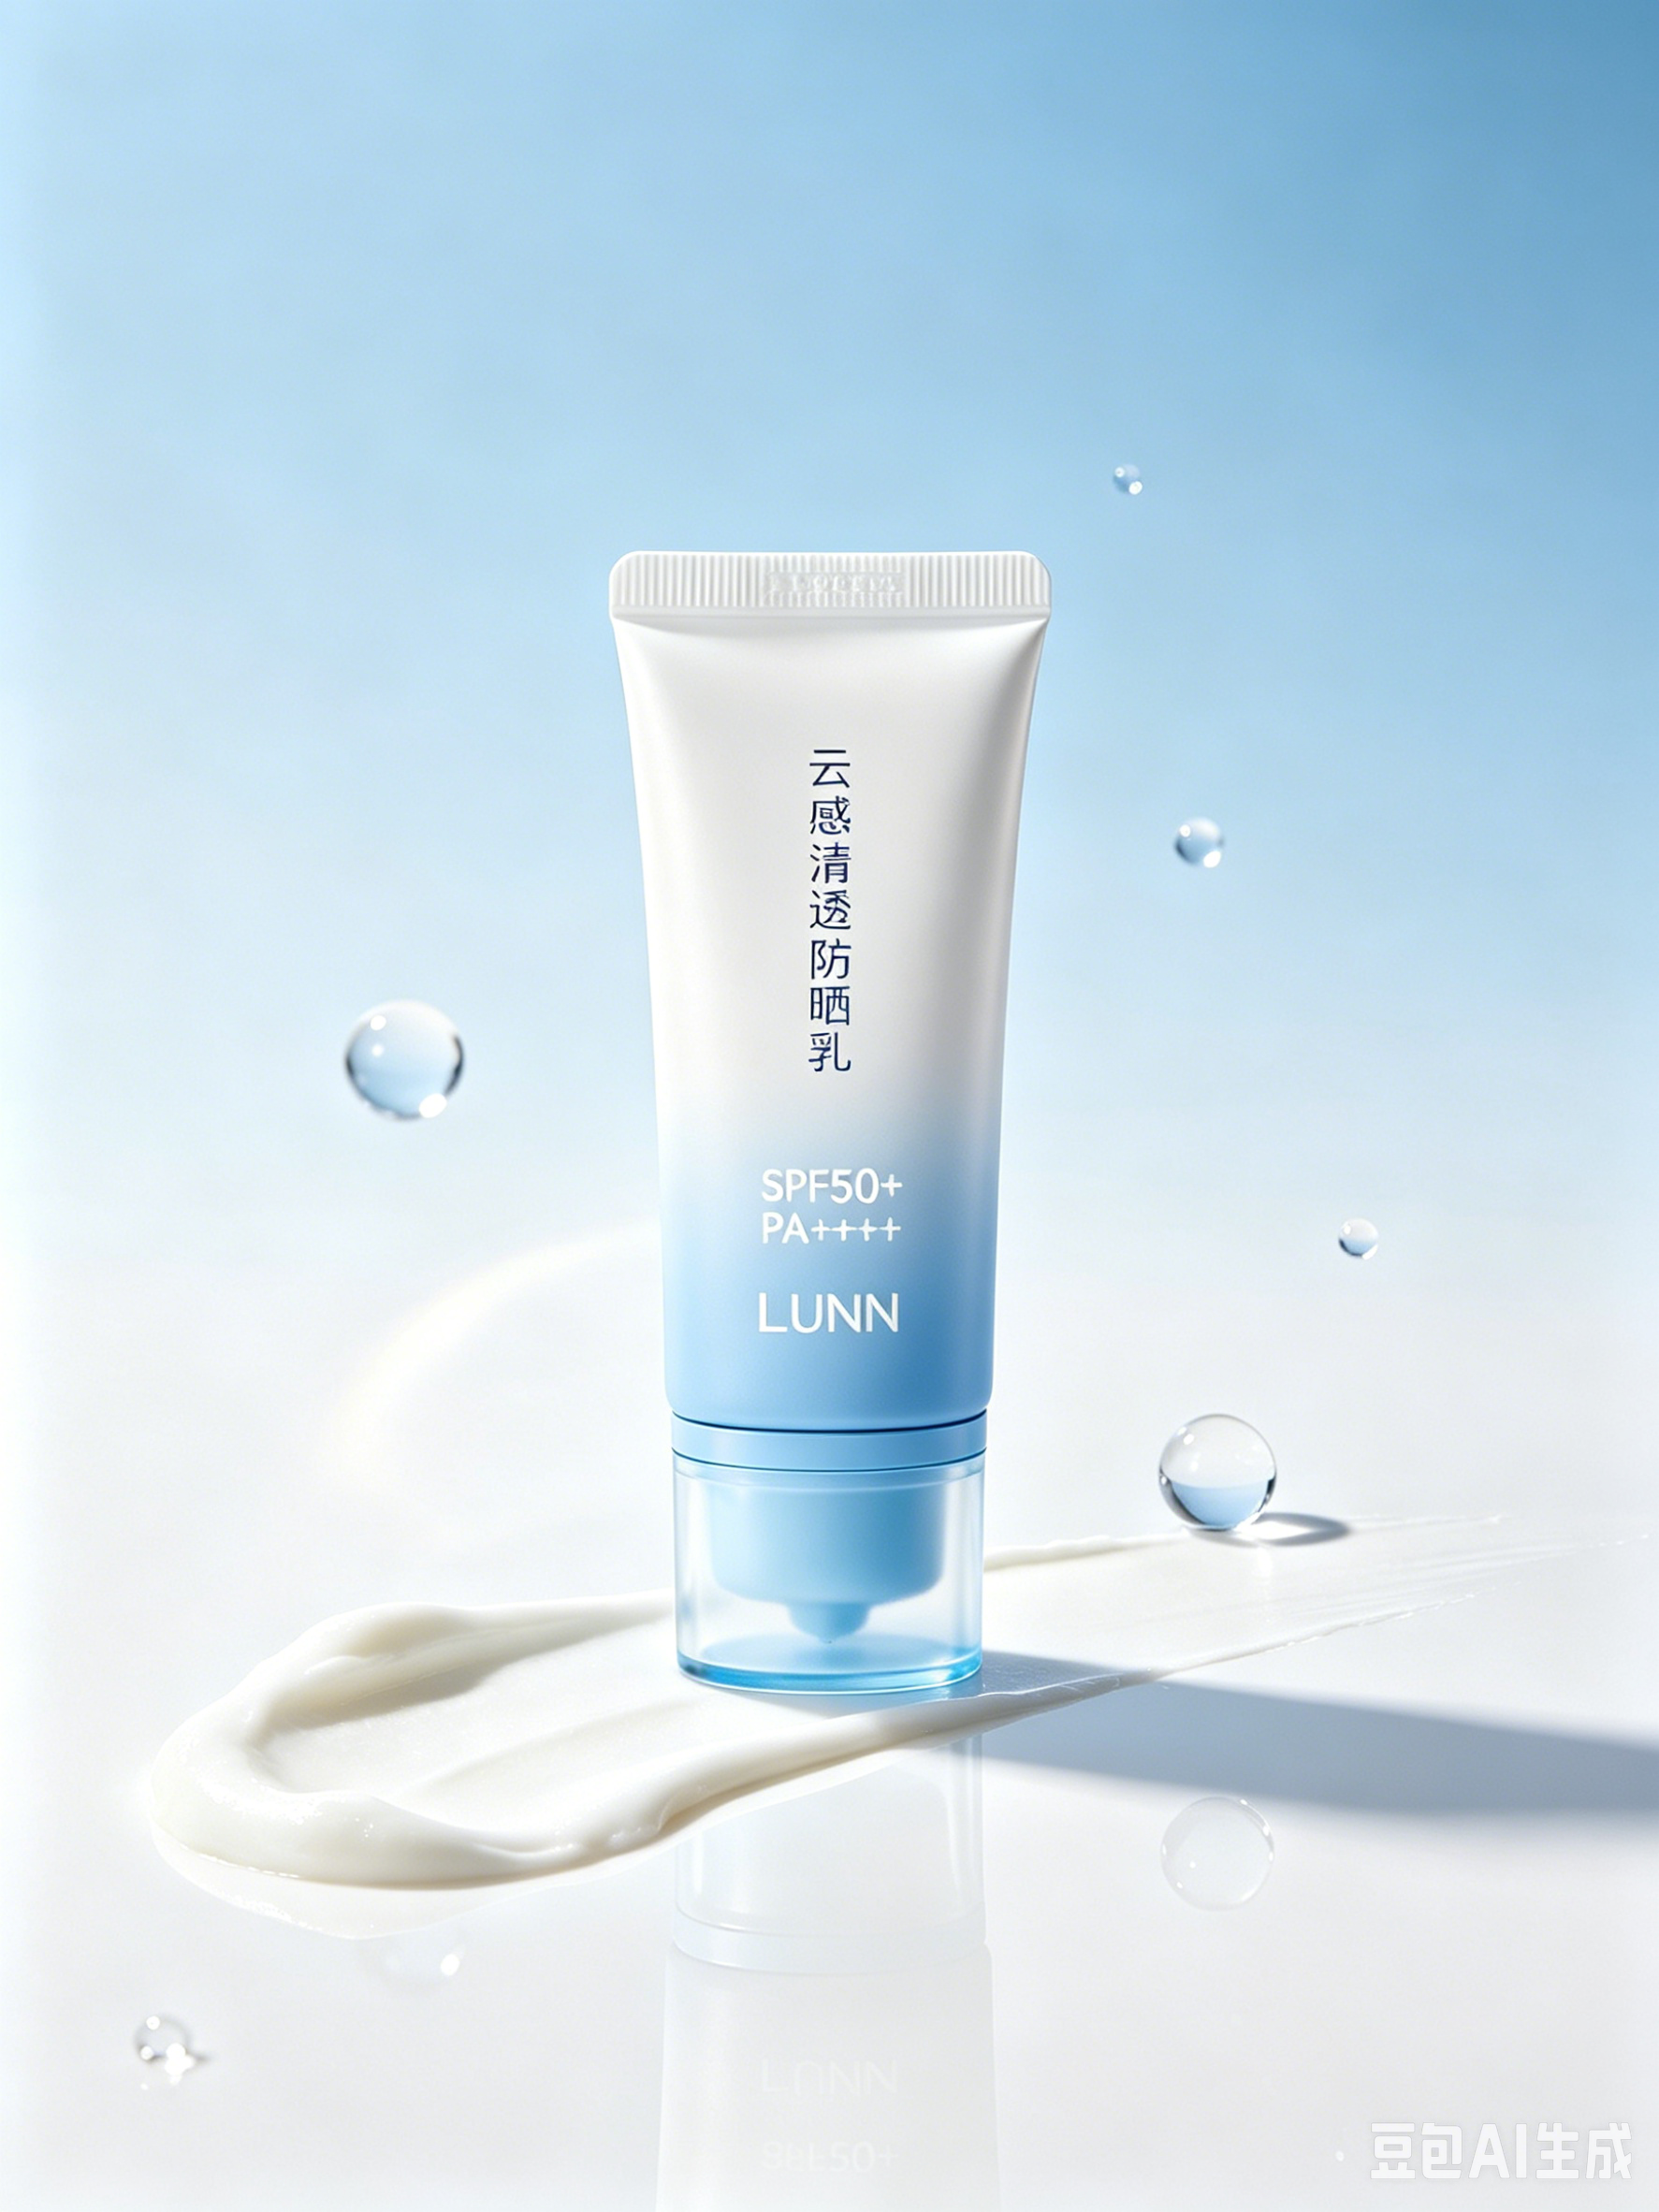
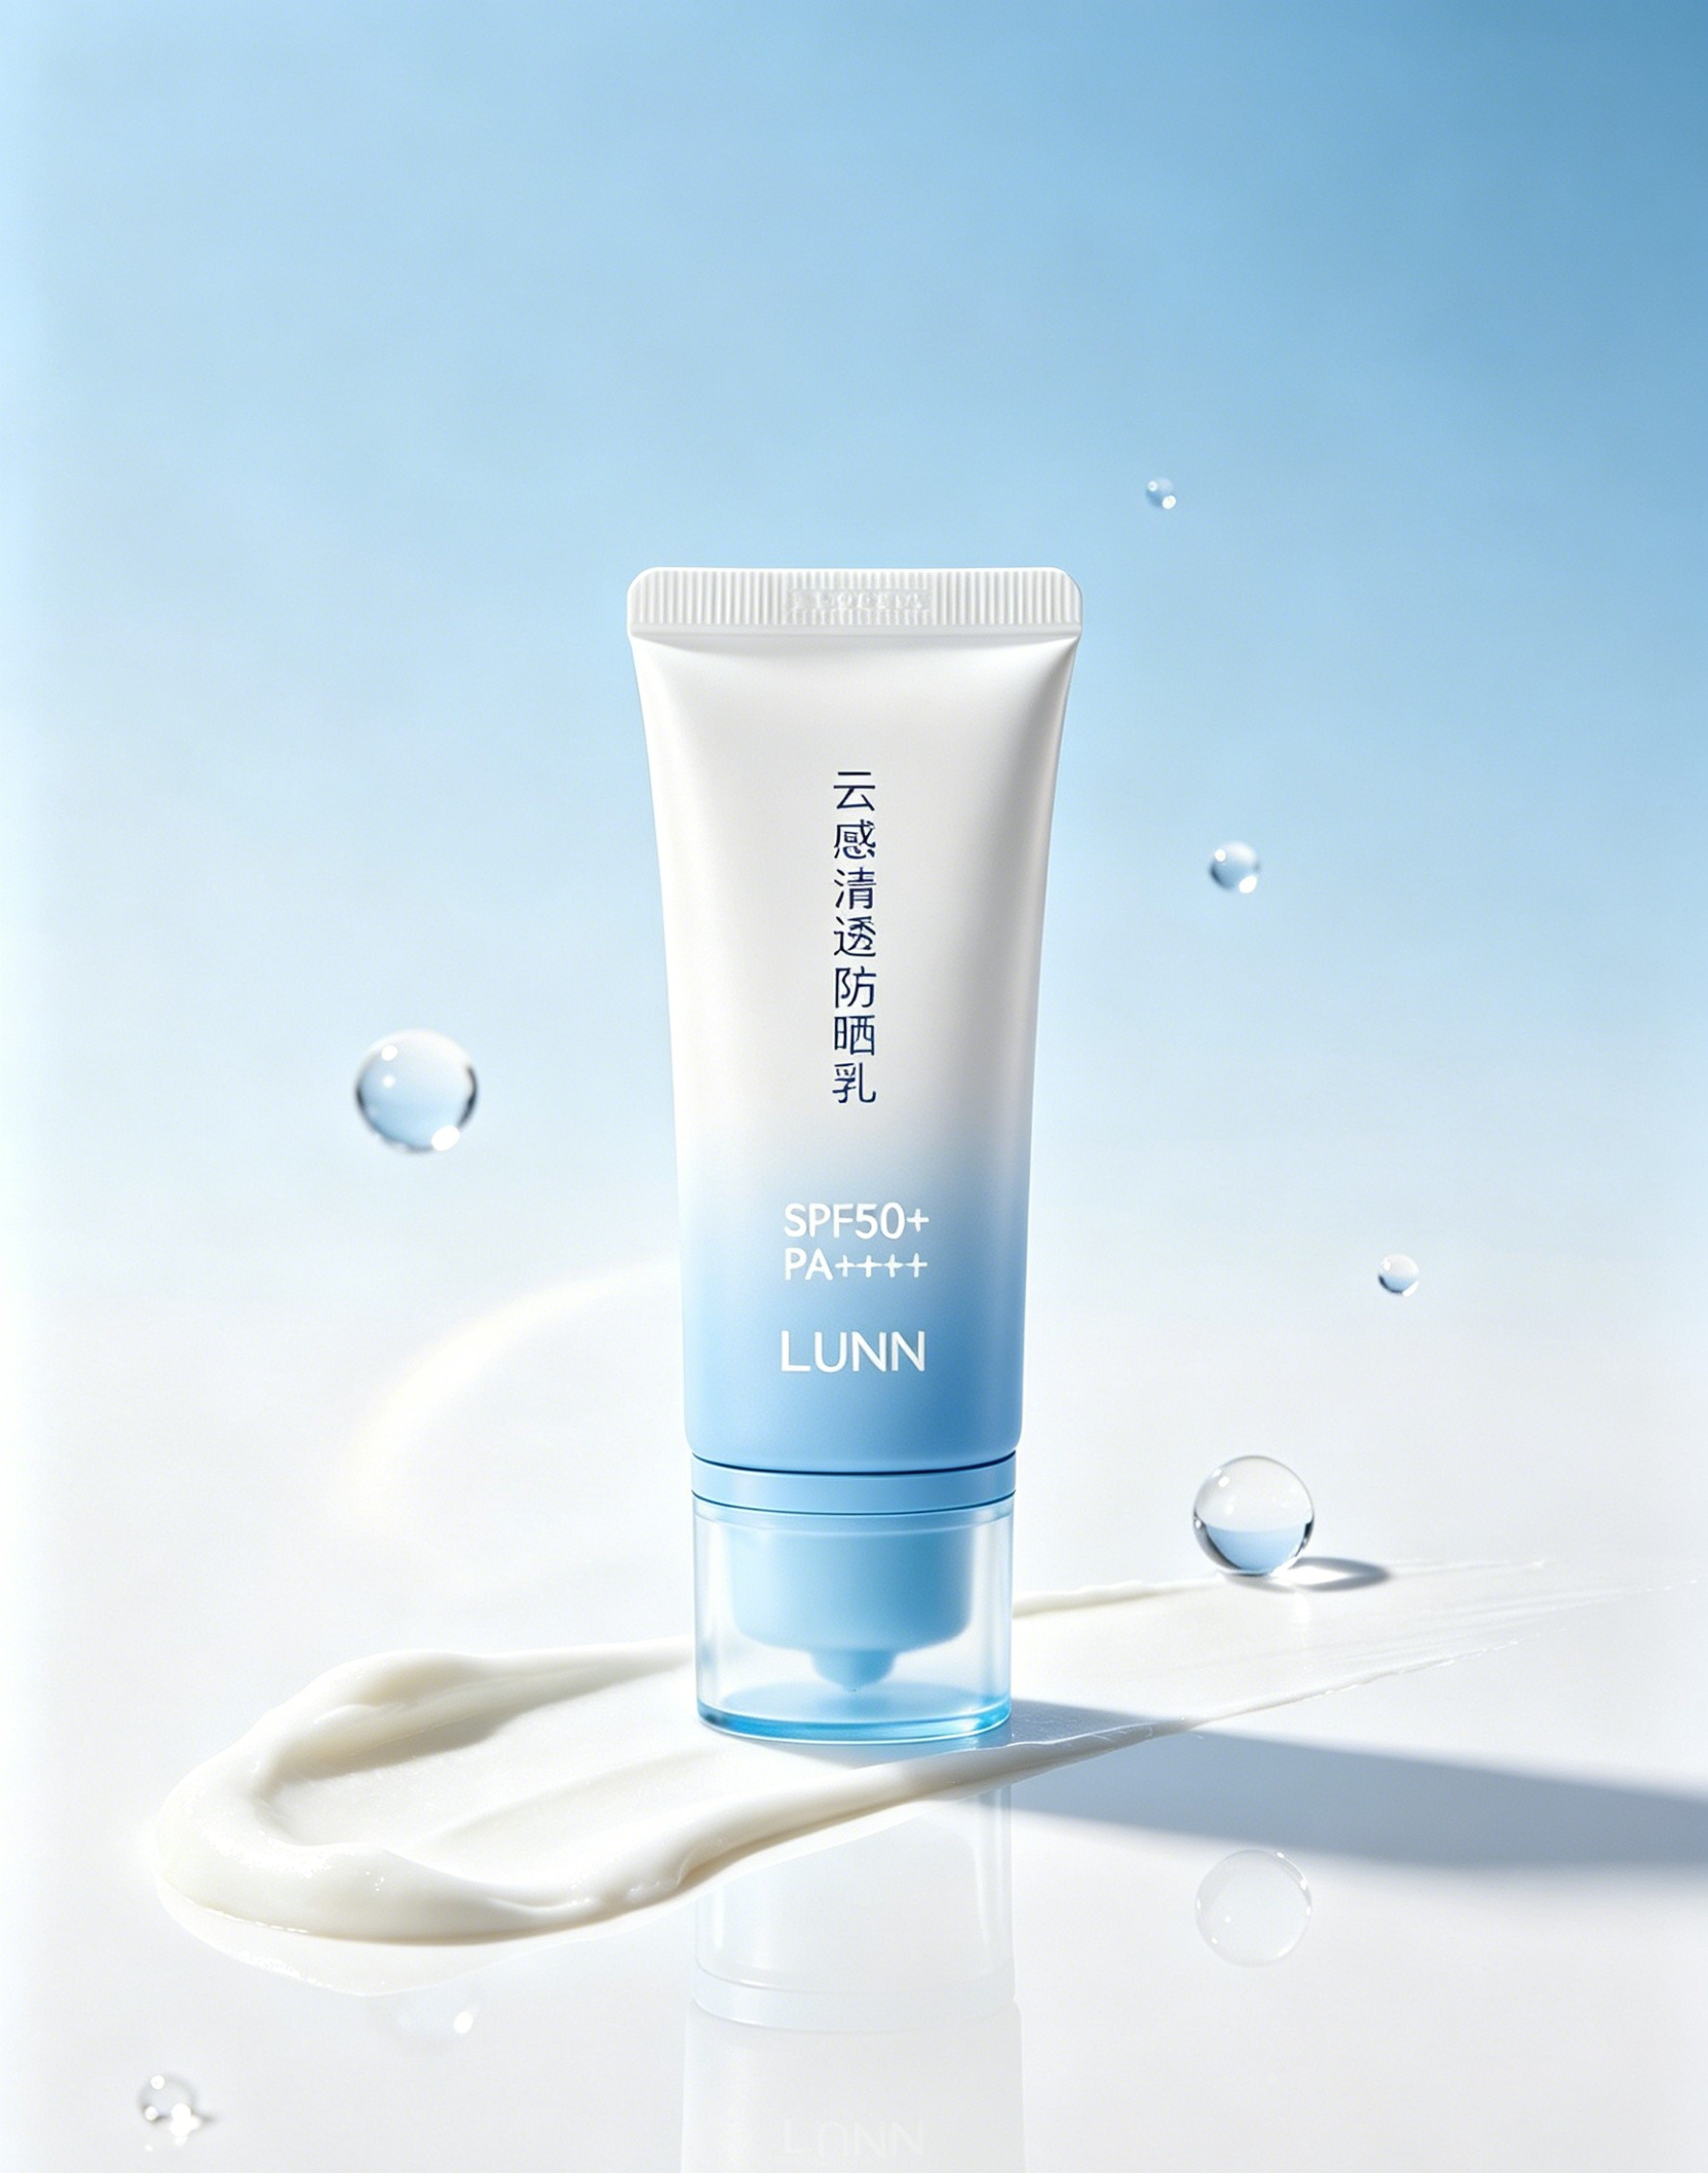
Add files via upload

diff --git a/suncontrol.html b/suncontrol.html
@@ -1,0 +1,323 @@
+<!DOCTYPE html>
+<html lang="zh-CN">
+<head>
+<meta charset="UTF-8">
+<meta name="viewport" content="width=device-width, initial-scale=1.0">
+<title>直播-无主播讲解对照组</title>
+<style>
+* {margin:0;padding:0;box-sizing:border-box;}
+body {background:#f5f5f5; font-family:微软雅黑;}
+.live-wrap {max-width:800px;margin:20px auto;background:#fff;border-radius:12px;overflow:hidden;box-shadow:0 2px 10px #0002;}
+video {width:100%;display:block;}
+.host-bar {padding:12px 15px;border-bottom:1px #eee solid;display:flex;align-items:center;}
+.avatar {width:40px;height:40px;border-radius:50%;background:#ff6700;color:#fff;text-align:center;line-height:40px;font-weight:bold;margin-right:10px;}
+.host-name {font-size:16px;font-weight:bold;}
+.live-tag {background:red;color:#fff;font-size:12px;padding:2px 6px;border-radius:4px;margin-left:8px;}
+
+/* 唤起商品弹窗的悬浮按钮：和商品弹窗同位置，不脱离视频区域 */
+.trigger-pop-btn{
+  position:fixed; 
+  bottom:120px; 
+  left:50%; 
+  transform:translateX(-50%);
+  width:calc(100% - 80px); 
+  max-width:760px;
+  padding:12px 24px;
+  background:#eeeeee;
+  border:0;
+  border-radius:10px;
+  font-size:15px;
+  cursor:pointer;
+  z-index:998;
+}
+
+/* 对照组：商品弹窗默认隐藏，不会自动弹出 */
+.product-pop {
+  position:fixed; 
+  bottom:25px; 
+  left:50%; 
+  transform:translateX(-50%);
+  width:calc(100% - 40px); 
+  max-width:800px;
+  background:#fff; 
+  border-radius:14px;
+  box-shadow:0 5px 25px rgba(0,0,0,0.15); 
+  padding:20px; 
+  display:none; 
+  z-index:999;
+}
+.product-pop.show {display:block;}
+
+.pop-row {
+  display:flex;
+  gap:14px;
+  align-items:center;
+  margin-bottom:16px;
+}
+.pop-left-img {
+  width:90px;
+  height:90px;
+  object-fit:cover;
+  border-radius:10px;
+}
+.pop-right-text {
+  flex:1;
+}
+.p-title {font-size:18px;font-weight:bold;margin-bottom:8px;line-height:1.4;}
+.p-price {color:#ff4400;font-size:20px;font-weight:bold;}
+
+/* 双按钮并排容器，和实验组样式完全统一 */
+.btn-row {
+  display:flex;
+  gap:12px;
+}
+.btn-half {
+  flex:1;
+  padding:14px;
+  border-radius:10px;
+  border:0;
+  cursor:pointer;
+  font-weight:bold;
+  font-size:16px;
+}
+.btn-detail {
+  background:#f0f0f0;
+  color:#333;
+}
+.btn-buy {
+  background:#ff6700;
+  color:#fff;
+}
+
+/* 详情弹窗样式和实验组完全一致，顶部30%透明露出视频 */
+.detail-mask {
+  position:fixed;
+  inset:0;
+  z-index:9999;
+  display:none;
+  background:linear-gradient(to bottom, transparent 30%, rgba(0,0,0,0.6) 25%);
+}
+.detail-mask.show {display:block;}
+.detail-box {
+  width:92%;
+  max-width:780px;
+  height:60vh;
+  background:#fff;
+  border-radius:14px;
+  position:absolute;
+  left:50%;
+  bottom:5vh;
+  transform:translateX(-50%);
+  display:flex;
+  flex-direction:column;
+  overflow:hidden;
+}
+.detail-top {
+  display:flex;
+  justify-content:space-between;
+  align-items:center;
+  padding:12px 16px;
+  border-bottom:1px solid #eee;
+}
+.detail-close {
+  background:#eee;
+  border:0;
+  width:32px;
+  height:32px;
+  border-radius:50%;
+  font-size:18px;
+  cursor:pointer;
+}
+.detail-iframe {
+  flex:1;
+  width:100%;
+  border:0;
+}
+
+/* 下单成功弹窗样式（初代无倒计时版本） */
+.success-mask{
+  position: fixed;
+  inset: 0;
+  background: rgba(0,0,0,0.5);
+  z-index: 10000;
+  display: none;
+}
+.success-mask.show{
+  display: flex;
+  align-items: center;
+  justify-content: center;
+}
+.success-box{
+  width: 85%;
+  max-width: 360px;
+  background: #fff;
+  border-radius: 14px;
+  padding: 30px 25px;
+  text-align: center;
+}
+.success-icon{
+  width: 60px;
+  height: 60px;
+  border-radius: 50%;
+  background: #07c160;
+  color: #fff;
+  font-size: 32px;
+  line-height: 60px;
+  margin: 0 auto 15px;
+}
+.success-text{
+  font-size: 20px;
+  font-weight: bold;
+  color: #333;
+  margin-bottom: 20px;
+}
+.success-desc{
+  color: #666;
+  margin-bottom: 25px;
+}
+.success-btn{
+  width: 100%;
+  padding: 12px;
+  background: #ff6700;
+  color: #fff;
+  border: none;
+  border-radius: 10px;
+  font-size: 16px;
+  font-weight: bold;
+  cursor: pointer;
+}
+</style>
+</head>
+<body>
+
+<div class="live-wrap">
+  <!-- 无讲解对照组视频链接 -->
+  <video id="v" controls preload="auto"
+playsinline webkit-playsinline
+x5-video-player-type="h5"
+x5-video-player-fullscreen="false"
+controlslist="nofullscreen">
+    <source src="https://neon-madeleine-a9f04c.netlify.app/suncontrol.mp4" type="video/mp4">
+    您的浏览器不支持视频播放
+</video>
+  <div class="host-bar">
+    <div class="avatar">BLT</div>
+    <div>
+      <div class="host-name">LUNN品牌</div>
+      <span class="live-tag">直播中</span>
+    </div>
+  </div>
+</div>
+
+<!-- 悬浮唤起商品按钮：固定在视频画面内，不脱离视频底部区域 -->
+<button class="trigger-pop-btn" id="triggerPopBtn">查看本场直播商品</button>
+
+<!-- 商品弹窗：替换为左右双按钮布局 -->
+<div class="product-pop" id="pop">
+  <div class="pop-row">
+    <img class="pop-left-img" src="https://matcha998.github.io/live-demo/sunmain.jpg">
+    <div class="pop-right-text">
+      <div class="p-title">LUNN云感清透防晒乳 SPF50+</div>
+      <div class="p-price">直播间专享特惠 ¥59.9</div>
+    </div>
+  </div>
+  <!-- 左右两分按钮，分别绑定id -->
+  <div class="btn-row">
+    <button class="btn-half btn-detail" id="openDetailBtn">查看完整图文详情</button>
+    <button class="btn-half btn-buy" id="buyBtn">立即下单</button>
+  </div>
+</div>
+
+<!-- 详情弹窗（和实验组完全相同） -->
+<div class="detail-mask" id="detailMask">
+  <div class="detail-box">
+    <div class="detail-top">
+      <span>商品完整详情</span>
+      <button class="detail-close" id="closeDetailBtn">×</button>
+    </div>
+    <iframe class="detail-iframe" src="https://Matcha998.github.io/live-demo/sundetail.html"></iframe>
+  </div>
+</div>
+
+<!-- 下单成功弹窗（初代版本，无倒计时） -->
+<div class="success-mask" id="successMask">
+  <div class="success-box">
+    <div class="success-icon">✓</div>
+    <div class="success-text">下单成功！</div>
+    <div class="success-desc">订单已提交，等待发货~</div>
+    <button class="success-btn" id="closeSuccessBtn">确定</button>
+  </div>
+</div>
+
+<script>
+// 全屏拦截（你新加的）
+document.addEventListener('fullscreenchange', function(){
+    if(document.fullscreenElement){
+        document.exitFullscreen();
+    }
+});
+document.addEventListener('webkitfullscreenchange', function(){
+    if(document.webkitFullscreenElement){
+        document.webkitExitFullscreen();
+    }
+});
+const pop = document.getElementById('pop');
+const triggerPopBtn = document.getElementById('triggerPopBtn');
+const detailMask = document.getElementById('detailMask');
+const openDetailBtn = document.getElementById('openDetailBtn');
+const closeDetailBtn = document.getElementById('closeDetailBtn');
+const buyBtn = document.getElementById('buyBtn');
+
+// 成功弹窗元素
+const successMask = document.getElementById('successMask');
+const closeSuccessBtn = document.getElementById('closeSuccessBtn');
+
+// 点击悬浮按钮弹出商品卡片
+triggerPopBtn.addEventListener('click', ()=>{
+  pop.classList.add('show');
+  triggerPopBtn.style.display = "none";
+});
+
+// 点击查看详情弹窗 + 发送详情点击标记
+openDetailBtn.addEventListener('click', ()=>{
+  detailMask.classList.add('show');
+  window.parent.postMessage({trigger:"click_detail_btn"}, "https://matcha998.github.io");
+});
+
+// 点击立即下单：上报 + 弹出成功弹窗
+buyBtn.addEventListener('click', ()=>{
+  window.parent.postMessage({trigger:"click_buy_btn"}, "https://matcha998.github.io");
+  successMask.classList.add('show');
+});
+
+// 点击确定关闭成功弹窗
+closeSuccessBtn.addEventListener('click', ()=>{
+  successMask.classList.remove('show');
+})
+// 点击遮罩灰色区域关闭弹窗
+successMask.addEventListener('click', (e)=>{
+  if(e.target === successMask){
+    successMask.classList.remove('show');
+  }
+})
+
+// 关闭详情弹窗
+closeDetailBtn.addEventListener('click', ()=>{
+  detailMask.classList.remove('show');
+});
+detailMask.addEventListener('click', (e)=>{
+  if(e.target === detailMask){
+    detailMask.classList.remove('show');
+  }
+});
+
+// 商品弹窗关闭时，重新显示唤起按钮
+pop.addEventListener('click', function(e){
+  if(e.target === pop){
+    pop.classList.remove('show');
+    triggerPopBtn.style.display = "block";
+  }
+});
+</script>
+</body>
+</html>

diff --git a/sundetail.html b/sundetail.html
@@ -94,7 +94,7 @@ td:nth-child(1){background:#f8f8f8;width:35%}
   <span class="tag">防水防汗</span>
   <span class="tag">敏感肌可用</span>
   <span class="tag">免卸妆</span>
-  <p>冰淇淋一抹化水质地，通勤海边全场景，男女通用清爽哑光防晒</p>
+  <span class="tag">运费险</span>
 </div>
 
 <!-- 产品规格参数 -->
@@ -104,7 +104,7 @@ td:nth-child(1){background:#f8f8f8;width:35%}
     <tr><td>产品名称</td><td>LUNN云感清透防晒乳</td></tr>
     <tr><td>防晒指数</td><td>SPF50+ PA+++ 物化结合防晒</td></tr>
     <tr><td>核心成分</td><td>红没药醇、透明质酸，无酒精配方</td></tr>
-    <tr><td>质地肤感</td><td>冰淇淋乳状，3秒成膜，哑光丝绒不泛白</td></tr>
+    <tr><td>质地肤感</td><td>冰淇淋乳状，3秒成膜</td></tr>
     <tr><td>适用场景</td><td>日常通勤、户外运动、海边度假、日常妆前打底</td></tr>
     <tr><td>清洁方式</td><td>普通洗面奶即可洗净，无需专用卸妆产品</td></tr>
   </table>